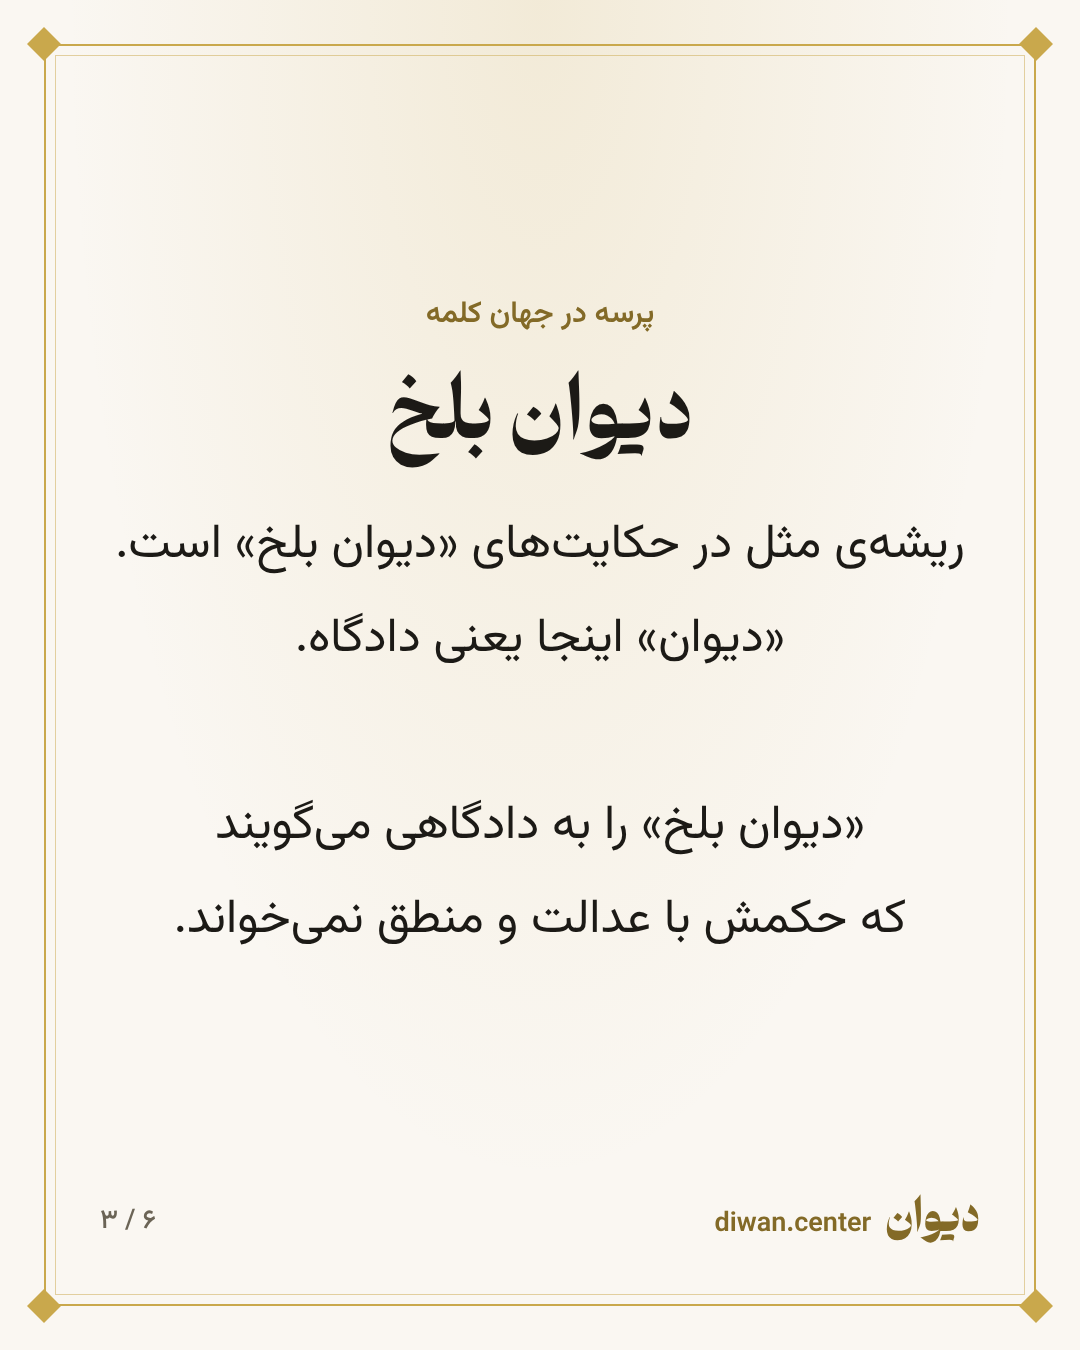
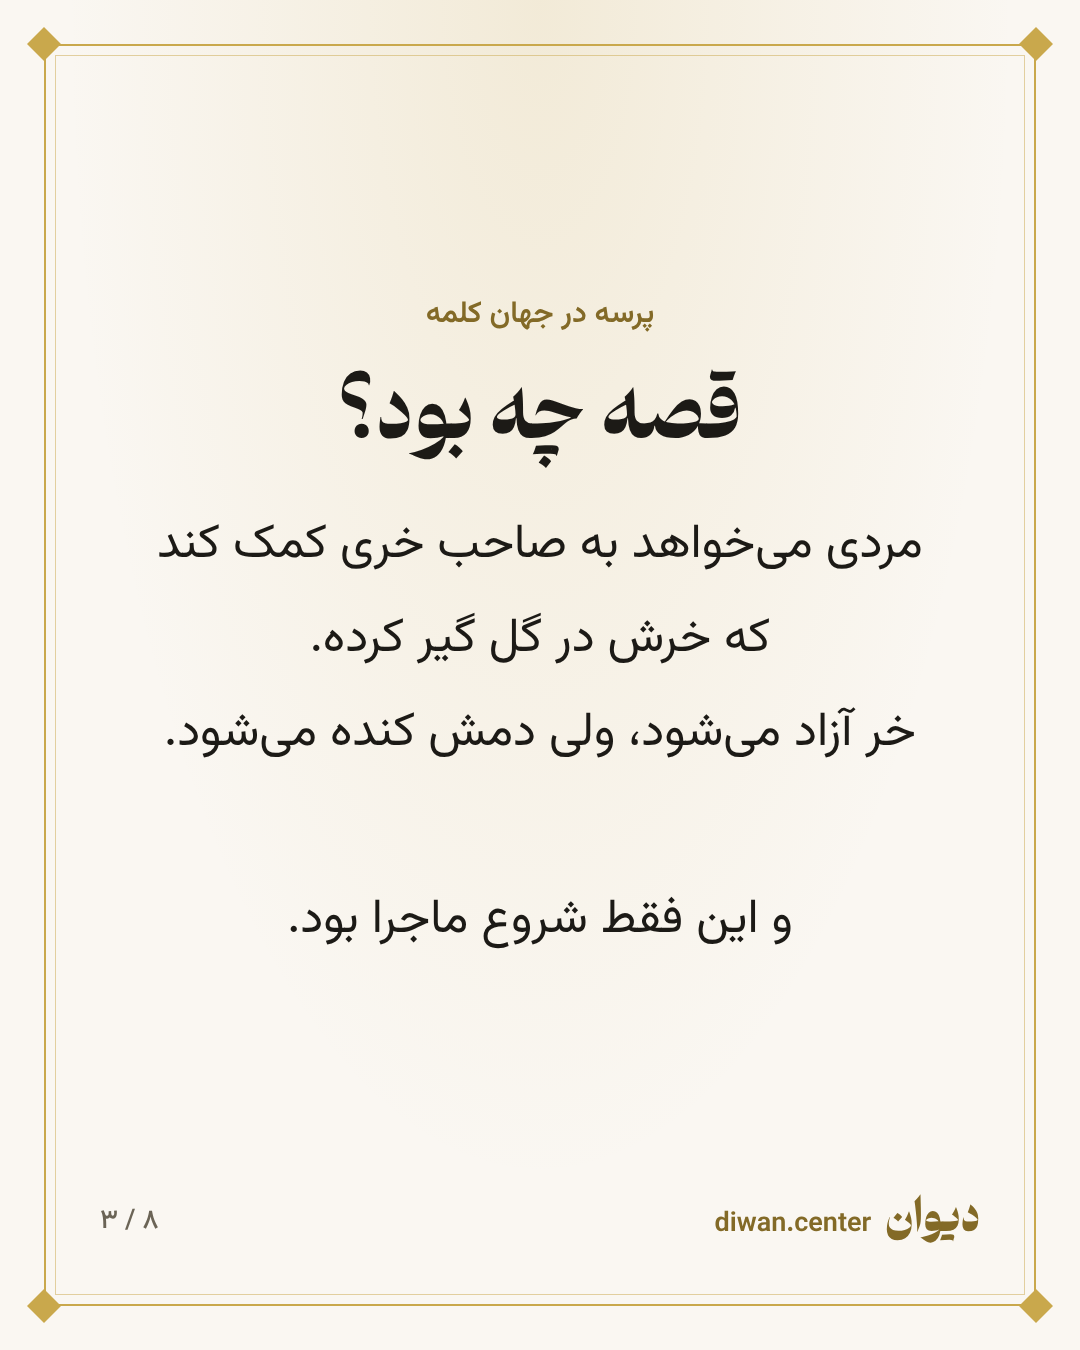
Proverb post14: 8-slide draft with sources; schedule untouched
Claude-Session: https://claude.ai/code/session_01KbXFhZ5gVHvAJQxmARukFF

diff --git a/tools/proverb/build.py b/tools/proverb/build.py
@@ -8,14 +8,16 @@ N=5
 XS=[1,2,4,5]
 K='پرسه در جهان کلمه'
 S=[
- dict(k='text',kicker=K,title='خر ما از کرگی دم نداشت',body='این مثل را همه شنیدهایم.\nولی «کرگی» یعنی چه،\nو دم خر چه ربطی به دادگاه دارد؟'),
- dict(k='text',kicker=K,title='«کرگی» یعنی چه؟',body='«کرگی» از «کرگدن» نیست.\nدر لغتنامهی دهخدا،\n«کرگی» حالت و سنِ «کره» است،\nیعنی بچهاسب و بچهخر.\n\nیعنی خرِ ما از بچگی دم نداشت.'),
+ dict(k='text',kicker=K,title='خر ما از کرگی دم نداشت',body='این مثل را همه شنیدهایم\nو میدانیم یعنی چه.\nاما ماجرای پشت این ضربالمثل چیست؟'),
  dict(k='text',kicker=K,title='دیوان بلخ',body='ریشهی مثل در حکایتهای «دیوان بلخ» است.\n«دیوان» اینجا یعنی دادگاه.\n\n«دیوان بلخ» را به دادگاهی میگویند\nکه حکمش با عدالت و منطق نمیخواند.'),
- dict(k='text',kicker=K,title='قصه چه بود؟',body='در روایتهای رایج، مردی در راه دادگاه\nمیخواهد به خری کمک کند\nو دم خر کنده میشود.\n\nماجرا به دعواهای پشتسرهم میکشد\nو قاضی حکمهایی میدهد\nکه عقل را به خنده میآورد.'),
+ dict(k='text',kicker=K,title='قصه چه بود؟',body='مردی میخواهد به صاحب خری کمک کند\nکه خرش در گل گیر کرده.\nخر آزاد میشود، ولی دمش کنده میشود.\n\nو این فقط شروع ماجرا بود.'),
+ dict(k='text',kicker=K,title='دعواها باز میشود',body='بدشانسیهای مرد ادامه پیدا میکند:\nزنی باردار را هل میدهد\nو بچهاش سقط میشود،\nچشم اسبی را کور میکند،\nروی پیرمردی میافتد و او میمیرد.\n\nهر کدام از او شکایت میکنند\nو پروندهها به دیوان بلخ میرسد.'),
+ dict(k='text',kicker=K,title='حکمهای قاضی',body='قاضی حکم میدهد اسب را از وسط نصف کنند\nو نیمهی کورش را به مرد بدهند.\n\nحکم میدهد مرد خرجِ پسر پیرمرد را بدهد،\nبعد زیر همان دیوار بخوابد\nتا پسر از بالای دیوار رویش بپرد.'),
+ dict(k='text',kicker=K,title='چرا چنین حکمهایی؟',body='بنا بر روایتها، قاضی فاسد و جاهطلب بود\nو دنبال جاه و مال بود، نه حق.\nاز چاپلوسی خوشش میآمد\nو مأموران دادگاه از هر مرحله پول میگرفتند.\n\nدهخدا مینویسد قاضیان بلخ\nبیگناه را گناهکار و گناهکار را بیگناه میکردند.'),
  dict(k='text',kicker=K,title='پایان قصه',body='صاحب خر که حکمها را میبیند،\nمیترسد دعوا به زیان خودش تمام شود\nو از شکایتش میگذرد:\n\n«خر ما از کرگی دم نداشت!»'),
- dict(k='close',title='امروز یعنی چه؟',body='یعنی از ادعایم میگذرم،\nچون میترسم دعوا زیان بزرگتری بیاورد.',final='مثلی که از یک دادگاه ناعادلانه ساخته شد.',),
+ dict(k='close',title='امروز یعنی چه؟',body='یعنی از ادعایم میگذرم،\nچون میترسم دعوا زیان بزرگتری بیاورد.',final='مثلی که از یک دادگاه ناعادلانه ساخته شد.',src='منبع: لغتنامهی دهخدا (کرگی، دیوان بلخ)، امثال و حکم، کتاب کوچهی شاملو'),
 ]
-N=6; XS=[1,2,3,4]
+N=8; XS=[1,3,5,7]
 assert len(S)==N
 SIZES={'st':(1080,1920),'ig':(1080,1350),'tg':(1280,720),'x':(1600,900)}
 CSS=DORAN+"""
@@ -131,7 +133,7 @@ def html(i,s,plat):
     elif k=='list':
         inner=f'<h2>{s["title"]}</h2><ol class="ol">'+''.join(f'<li><b>{fa(n+1)}</b><span>{t}</span></li>' for n,t in enumerate(s['items']))+'</ol>'
     elif k=='close':
-        inner=f'<h2>{s["title"]}</h2><div class="body">{s["body"]}</div><div class="final">{s["final"]}</div><div class="link">diwan.center</div>'
+        inner=f'<h2>{s["title"]}</h2><div class="body">{s["body"]}</div><div class="final">{s["final"]}</div><div class="link">diwan.center</div>'+(f'<div class="note">{s["src"]}</div>' if s.get('src') else '')
     elif k in('imgtext','imgverse'):
         t=f'<h2>{s["title"]}</h2>'
         if s.get('body'): t+=f'<div class="body">{s["body"]}</div>'
@@ -146,7 +148,7 @@ def html(i,s,plat):
 def page(i,s,plat):
     # tweak: imgtext on IG uses smaller text sizes
     pv={'ig':'--ap:40px 36px;--ag:22px;--aw:200px;--wkw:100%;--cw:84px','st':'--ap:44px 36px;--ag:26px;--aw:250px;--wkw:100%;--cw:92px','tg':'--ap:22px 40px;--ag:40px;--aw:130px;--wkw:46%;--cw:64px','x':'--ap:26px 50px;--ag:46px;--aw:160px;--wkw:46%;--cw:76px'}[plat]
-    extra=':root{'+pv+'}'+('.pg{display:none}' if plat=='st' else '')+'.body{font-size:calc(var(--fb)*1.2)}h2{font-size:calc(var(--ft)*1.12)}'
+    extra=(('.body{line-height:1.65!important}') if plat=='tg' else '')+':root{'+pv+'}'+('.pg{display:none}' if plat=='st' else '')+'.body{font-size:calc(var(--fb)*1.2)}h2{font-size:calc(var(--ft)*1.12)}'
     if plat=='ig' and s['k'] in('imgtext','imgverse'): extra='.body{font-size:33px;line-height:1.85}h2{font-size:56px}.verse.sm{font-size:37px}.kick{font-size:26px}'
     if plat=='ig' and s['k']=='chain' and len(s['chain'])>3: extra+='.node{padding:8px 20px}.chain{gap:10px}.node .w{font-size:36px}'
     return f'<!doctype html><html lang="fa" dir="rtl"><head><meta charset="utf-8"><style>{CSS}:root{{{VARS[plat]}}}{extra}</style></head><body>{html(i,s,plat)}</body></html>'
